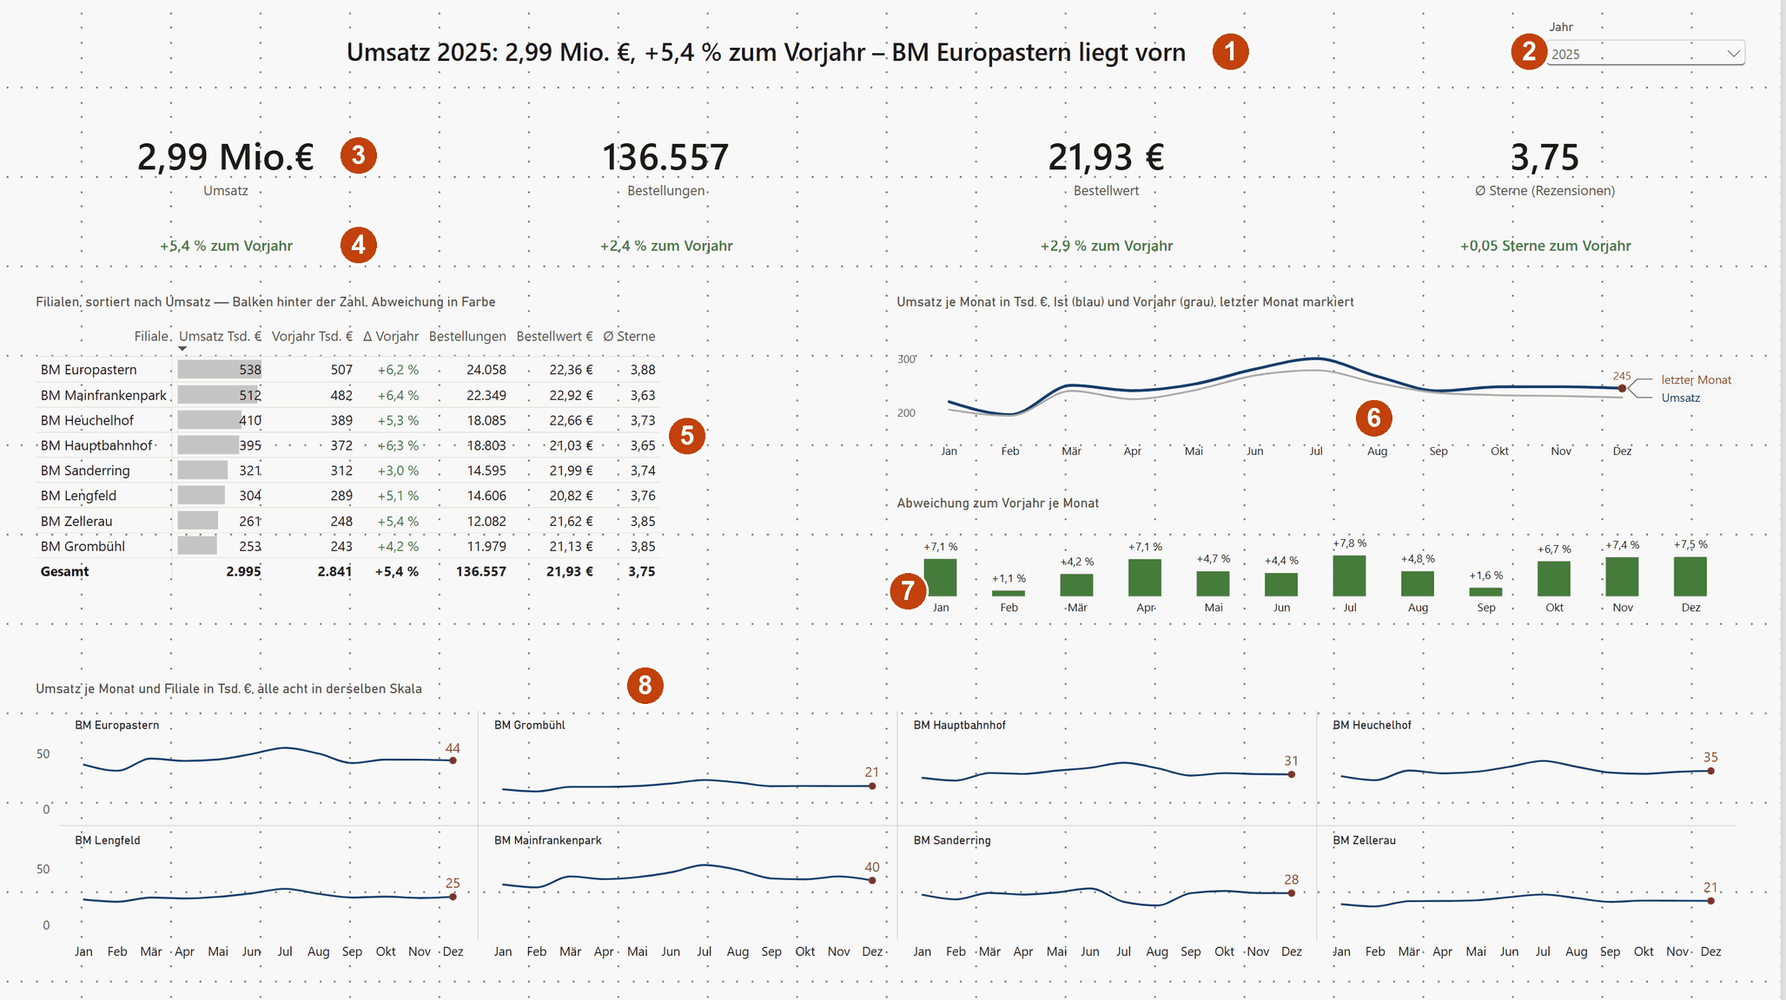
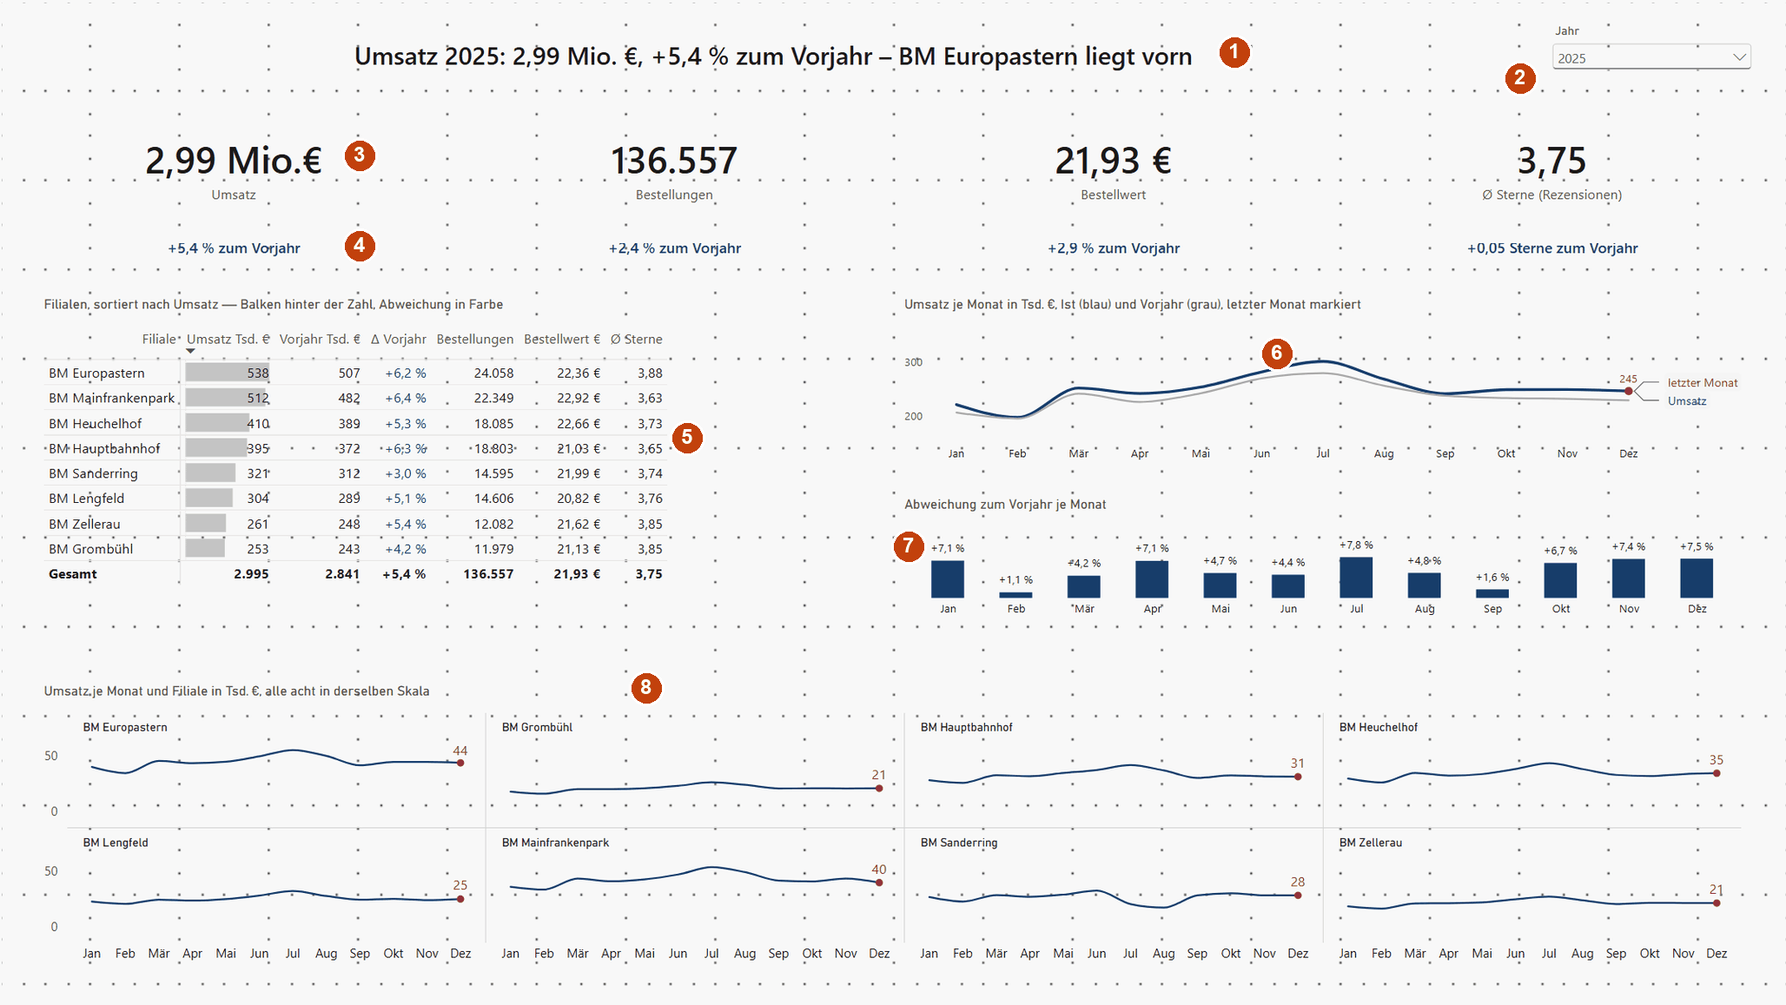
lab 04: Signalfarben in Power BI auf Blau für plus, Rot für minus
Die vier Farb-Measures (Δ Umsatz/Bestellungen/Bestellwert/Ø Sterne Farbe)
liefern jetzt #003E6E statt #2E7D32 — dieselbe Leitfarbe wie die Ist-Linie,
wie in Lab 05. Modell in der VM neu geladen und aktualisiert, Projekt
gespeichert und zurück ins Repository gespielt (ohne die von Power BI neu
erzeugte cultures/de-DE.tmdl). Bildschirmfoto der Dashboard-Seite neu,
Lab-04-Text, Legenden, DAX-Vorlage und Befehlskarte B03 angepasst.
verify.mjs: 815 Zusicherungen, 0 Fehler.

diff --git a/web/lab/lab-04-powerbi.html b/web/lab/lab-04-powerbi.html
@@ -278,20 +278,20 @@
 
   <section class="section-block" id="dashboard">
     <h2>Das Dashboard</h2>
-    <p>Der Bericht zeigt Zahlen; ein Dashboard stellt sie in einen Vergleich. Das Dashboard dieses Labs folgt vier Regeln aus dem Deck: <strong>Grau ist der Normalfall, Farbe die Ausnahme</strong> — die einzige Farbe sitzt in der Abweichung zum Vorjahr, Grün für plus, Rot für minus. <strong>Zahlen bleiben Zahlen</strong> — die Filialen stehen in einer Tabelle, der Balken liegt hinter der Zahl, nicht daneben. <strong>Die Abweichung bekommt eine eigene Zeile</strong> — die Linie zeigt Ist und Vorjahr in Grau und Blau, darunter stehen die Prozentwerte je Monat als eigenes Diagramm. <strong>Small Multiples in derselben Skala</strong> — acht Filialen als acht kleine Linien mit einer gemeinsamen Achse, jede mit dem letzten Wert beschriftet statt mit einer Legende. Der Titel ist ein Measure und nennt Jahr, Summe, Abweichung und die führende Filiale: „Umsatz 2025: 2,99 Mio. €, +5,4 % zum Vorjahr – BM Europastern liegt vorn“.</p>
+    <p>Der Bericht zeigt Zahlen; ein Dashboard stellt sie in einen Vergleich. Das Dashboard dieses Labs folgt vier Regeln aus dem Deck: <strong>Grau ist der Normalfall, Farbe die Ausnahme</strong> — die einzige Farbe sitzt in der Abweichung zum Vorjahr, Blau für plus, Rot für minus — dasselbe Blau wie die Ist-Linie. Blau-Rot statt Grün-Rot, weil rund acht Prozent der Männer Rot und Grün schlecht unterscheiden. <strong>Zahlen bleiben Zahlen</strong> — die Filialen stehen in einer Tabelle, der Balken liegt hinter der Zahl, nicht daneben. <strong>Die Abweichung bekommt eine eigene Zeile</strong> — die Linie zeigt Ist und Vorjahr in Grau und Blau, darunter stehen die Prozentwerte je Monat als eigenes Diagramm. <strong>Small Multiples in derselben Skala</strong> — acht Filialen als acht kleine Linien mit einer gemeinsamen Achse, jede mit dem letzten Wert beschriftet statt mit einer Legende. Der Titel ist ein Measure und nennt Jahr, Summe, Abweichung und die führende Filiale: „Umsatz 2025: 2,99 Mio. €, +5,4 % zum Vorjahr – BM Europastern liegt vorn“.</p>
     <div class="shot">
       <div class="shot-bar"><span class="ampel"><i></i><i></i><i></i></span><span class="titel">Seite „Dashboard“</span><span class="spacer"></span>Power BI Desktop · August 2026</div>
-      <a class="foto" href="assets/powerbi/dashboard.png" target="_blank" rel="noopener"><img src="assets/powerbi/dashboard.png" alt="Dashboard-Seite in Power BI Desktop: Titel Umsatz 2025: 2,99 Mio. €, +5,4 % zum Vorjahr – BM Europastern liegt vorn; Jahresauswahl 2025; vier Kacheln Umsatz 2,99 Mio. €, Bestellungen 136.557, Bestellwert 21,93 €, Ø Sterne 3,75 mit grünen Abweichungstexten zum Vorjahr; Tabelle der acht Filialen mit Datenbalken hinter Umsatz Tsd. €, Vorjahr, Δ Vorjahr in Grün, Bestellungen, Bestellwert und Ø Sterne; Liniendiagramm Umsatz je Monat Ist blau und Vorjahr grau mit rotem Punkt und 245 am letzten Monat; Säulen Abweichung zum Vorjahr je Monat in Grün; acht Small Multiples Umsatz je Monat und Filiale mit roten Endpunkten" width="2056" height="1152" loading="lazy"></a>
+      <a class="foto" href="assets/powerbi/dashboard.png" target="_blank" rel="noopener"><img src="assets/powerbi/dashboard.png" alt="Dashboard-Seite in Power BI Desktop: Titel Umsatz 2025: 2,99 Mio. €, +5,4 % zum Vorjahr – BM Europastern liegt vorn; Jahresauswahl 2025; vier Kacheln Umsatz 2,99 Mio. €, Bestellungen 136.557, Bestellwert 21,93 €, Ø Sterne 3,75 mit blauen Abweichungstexten zum Vorjahr; Tabelle der acht Filialen mit Datenbalken hinter Umsatz Tsd. €, Vorjahr, Δ Vorjahr in Blau, Bestellungen, Bestellwert und Ø Sterne; Liniendiagramm Umsatz je Monat Ist blau und Vorjahr grau mit rotem Punkt und 245 am letzten Monat; Säulen Abweichung zum Vorjahr je Monat in Blau; acht Small Multiples Umsatz je Monat und Filiale mit roten Endpunkten" width="2056" height="1152" loading="lazy"></a>
     </div>
-    <p class="foto-hinweis">Bildschirmfoto vom 21.09.2026, Power BI Desktop 2.157.1354.0 (August 2026) unter Windows 11, deutsche Oberfläche — zum Vergrößern anklicken.</p>
+    <p class="foto-hinweis">Bildschirmfoto vom 22.09.2026, Power BI Desktop 2.157.1354.0 (August 2026) unter Windows 11, deutsche Oberfläche — zum Vergrößern anklicken.</p>
     <ol class="shot-legende">
       <li><span class="callout">1</span><span>Der Titel als Karte mit dem Measure <code>Titel Dashboard</code>: Er rechnet mit, wenn das Jahr wechselt.</span></li>
       <li><span class="callout">2</span><span>Die Jahresauswahl, ein Datenschnitt auf <code>dim_date[year]</code> als Dropdown mit Einzelauswahl; 2025 ist voreingestellt. Ohne gewähltes Jahr zeigen die Kacheln „ein Jahr wählen für den Vorjahresvergleich“.</span></li>
       <li><span class="callout">3</span><span>Vier Karten: <code>Umsatz</code>, <code>Bestellungen</code>, <code>Bestellwert</code>, <code>Ø Sterne</code> — die Kontrollzahlen 2,99 Mio. €, 136.557, 21,93 €, 3,75.</span></li>
-      <li><span class="callout">4</span><span>Darunter je eine Karte mit dem Text-Measure zur Abweichung, gefärbt über das Farb-Measure: +5,4 %, +2,4 %, +2,9 % und +0,05 Sterne zum Vorjahr 2024.</span></li>
-      <li><span class="callout">5</span><span>Die Matrix der acht Filialen, absteigend nach Umsatz: Datenbalken in Grau hinter <code>Umsatz Tsd. €</code>, daneben Vorjahr, <code>Δ Vorjahr</code> in Farbe, Bestellungen, Bestellwert, Ø Sterne; Gesamtzeile 2.995 · 2.841 · +5,4 % · 136.557 · 21,93 € · 3,75.</span></li>
+      <li><span class="callout">4</span><span>Darunter je eine Karte mit dem Text-Measure zur Abweichung, gefärbt über das Farb-Measure: +5,4 %, +2,4 %, +2,9 % und +0,05 Sterne zum Vorjahr 2024 — in Blau, weil alle vier im Plus liegen.</span></li>
+      <li><span class="callout">5</span><span>Die Matrix der acht Filialen, absteigend nach Umsatz: Datenbalken in Grau hinter <code>Umsatz Tsd. €</code>, daneben Vorjahr, <code>Δ Vorjahr</code> in Farbe — hier durchweg Blau —, Bestellungen, Bestellwert, Ø Sterne; Gesamtzeile 2.995 · 2.841 · +5,4 % · 136.557 · 21,93 € · 3,75.</span></li>
       <li><span class="callout">6</span><span>Ist (blau) gegen Vorjahr (grau) je Monat in Tsd. €, Serien direkt beschriftet statt mit Legende, der letzte Monat mit rotem Punkt und Wert: Dezember 245.</span></li>
-      <li><span class="callout">7</span><span>Die Abweichung je Monat als eigene Zeile: Säulen mit Vorzeichen, gefärbt über <code>Δ Umsatz Farbe</code> — 2025 in jedem Monat grün, +1,1 % im Februar bis +7,8 % im Juli.</span></li>
+      <li><span class="callout">7</span><span>Die Abweichung je Monat als eigene Zeile: Säulen mit Vorzeichen, gefärbt über <code>Δ Umsatz Farbe</code> — Blau für plus, Rot für minus; 2025 in jedem Monat blau, +1,1 % im Februar bis +7,8 % im Juli.</span></li>
       <li><span class="callout">8</span><span>Small Multiples: eine Linie je Filiale in derselben Skala, jede mit rotem Endpunkt und Wert. BM Europastern liegt bei 44 Tsd. € im Dezember, BM Zellerau und BM Grombühl bei 21.</span></li>
     </ol>
     <p>Die Vorjahresmeasures brauchen <code>dim_date</code> als markierte Datumstabelle und <code>SAMEPERIODLASTYEAR</code>; die Vorlage <code>powerbi-dashboard.dax</code> enthält alle 20 Measures und die Spalte <code>Monat</code> mit Erklärung, Befehlskarte B03 zerlegt die wichtigsten. Die Klickwege für die vier Bausteine, die den Unterschied zum Bericht machen, stehen in Befehlskarte B04 und den Bildschirmfotos darunter.</p>

diff --git a/docs/superpowers/specs/2026-09-12-bm-analyse-lernumgebung-design.md b/docs/superpowers/specs/2026-09-12-bm-analyse-lernumgebung-design.md
@@ -472,7 +472,7 @@ jeder Seite im Browser (Kopf, Navigation, Übungen, Datenbankband), Aufruf von
 
 **Stand 21. September 2026 (Prüfung von Lab 04 mit Power BI Desktop, dazu ein Dashboard):** Lab 04 wurde in Roberts Parallels-VM (Windows 11, deutsche Oberfläche) mit Power BI Desktop 2.157.1354.0 (August 2026) und dem Demo-Konto durchgespielt: Verbindung, Navigator, Import der sieben Tabellen, Modellansicht, fünf Measures, Seite „Bericht“ (Tabelle der Kontrollzahlen, Balken je Filiale, Linie je Monat, Seitenfilter 2025) — Kontrollzahlen 2.994.771,13 € · 136.557 · 21,93 € · 3,75 wie in `v_kennzahlen_jahr`. Auf Roberts Wunsch kam eine Seite „Dashboard“ nach den Regeln aus `references/diagramme.md` (Tufte, Bissantz, IBCS) dazu: Titel als Measure, vier Kacheln mit Abweichung zum Vorjahr, Matrix der Filialen mit Datenbalken hinter der Zahl, Ist gegen Vorjahr je Monat mit markiertem letztem Punkt, Abweichung als eigene Zeile in Grün/Rot, Small Multiples je Filiale in gleicher Skala, Monatskürzel auf den Achsen; 20 zusätzliche Measures und die Spalte `Monat` (Vorlage `web/lab/vorlagen/powerbi-dashboard.dax`), das Projekt als PBIP ohne Daten und Kennwort unter `powerbi/BurgerMetrics/` (die Seite „Dashboard“ ist als PBIR-JSON geschrieben und in Power BI geladen, geprüft und gespeichert). Befunde und Folgen im Lab: (1) Die Verbindung ist ein einziger Dialog „Mit Datenquelle verbinden“ (Server mit Port, Datenbank, Importieren/DirectQuery, Erweiterte Optionen mit SQL-Anweisung, Authentifizierungsart Standard, Datenschutzebene, Kästchen „Verschlüsselte Verbindung verwenden“); der Wortlaut einer Warnung zur unverschlüsselten Verbindung trat nicht auf (Anmeldung war gespeichert) und wird nicht mehr behauptet. (2) Der Navigator listet Tabellen und gewöhnliche Sichten (48 Einträge), keine materialisierten — die 38 `v_*` fehlen; Weg über „SQL-Anweisung“ mit Genehmigung der nativen Abfrage belegt (`v_kennzahlen_jahr`, zehn Zeilen). (3) Nach dem Laden entstanden acht Beziehungen (alle `_id`-Spalten, im Projekt `AutoDetected_`), die zwei Fremdschlüssel auf `dim_date.date` fehlten trotz beider Optionen und wurden von Hand angelegt; `fact_reviews → fact_orders` legte Power BI selbst als 1:1 inaktiv an (`order_id` beidseitig eindeutig). Die Aussage „13 Fremdschlüssel → 13 Beziehungen“ ist gestrichen. (4) DirectQuery über `fact_order_items` scheitert mit dem belegten Wortlaut „Das Resultset einer Abfrage an eine externe Datenquelle hat die maximal zulässige Größe von 1000000 Zeilen überschritten.“; die inaktive Filialbeziehung zeigt in jedem Balken die Gesamtsumme plus eine Zeile „(Leer)“ (nachgestellt). (5) Die zwei Nachbildungen sind durch 20 Bildschirmfotos unter `web/lab/assets/powerbi/` ersetzt (2,6 MB); Lab 04 hat einen neuen Abschnitt „Das Dashboard“, Befehlskarten B03/B04, Checkliste W04-05 mit acht Schritten, Quizfrage zu den Beziehungen; `LABS` in `bm.js` nennt 150 Minuten; `verify.mjs` 803 Zusicherungen, 0 Fehler. Werkzeuglehre: Parallels-Fenster nur per `computer_batch` bedienbar; Mac-seitiges Schreiben in den VM-Ordner hinterlässt `._*`-Dateien, die Power BI als TMDL zu lesen versucht — vor jedem Öffnen löschen. Nicht geprüft: der Wortlaut der Verschlüsselungswarnung, die Fan Trap im Modell (Zahlen aus SQL), das Verhalten mit allen 14 Tabellen.
 
-**Stand 22. September 2026 (Kennzahlen-Dashboard in Tableau):** Auf Roberts Wunsch wurde das Dashboard aus Lab 04 mit Tableau Desktop 2026.2 (macOS, deutsche Oberfläche, Demo-Konto) nachgebaut und Lab 05 um den Abschnitt „Das Kennzahlen-Dashboard“ erweitert (Roberts Vorgabe vom 22.09.: keine Nennung von Tufte/Bissantz in Überschriften — auch die Lab-04-Einleitung angepasst): Datenquelle aus `fact_orders`, `dim_branch` und `fact_reviews` (Beziehung `Order Id = Order Id`, von Tableau nicht vorgeschlagen) als Extrakt; Parameter `Jahr` statt eines Filters, weil ein Filter das Vorjahr aus dem Blatt entfernen würde — Ist und Vorjahr als `SUM(IF YEAR([Date]) = [Jahr] THEN [Net Total] END)` und `[Jahr] - 1`, ohne Datumstabelle; 27 Calculated Fields (`web/lab/vorlagen/tableau-dashboard-felder.txt`, Befehlskarte B05), darunter der rote Punkt als Doppelachse mit einem Feld, das nur im jüngsten Monat einen Wert hat, `Top Filiale` als verschachtelter FIXED-Ausdruck und der Titel als Feld (`STR()` schreibt Dezimalpunkte, `REPLACE` das Komma); zehn Blätter; nach Roberts Rückmeldung zur ersten Fassung („zu gedrängt, zu wenig Weißraum, untere Grafik zu lang gestreckt“) neu gesetzt: 1600 × 1100, ein vertikaler Container als Rahmen mit horizontalen Containern fester Höhe je Reihe (64/140/390), zwölf Pixel äußere Füllung je Kachel und 20 am Rand, Trenn- und Rasterlinien über Format → Linien entfernt, die Small Multiples in der dritten Runde (Roberts Rückmeldung: Filialname als Überschrift, nicht als Label; gleiche Höhen; letzter Monat an der Achse; Dropdown) als zwei Blätter zu je vier Filialen mit `Branch Name` auf Spalten (Überschrift), Filter auf die Tabellenberechnung `Zeile = INT((INDEX() - 1) / 4)` (0/1, Berechnen per Branch Name), feste Achse 10–60, Teilstriche der Monatsachse alle zwei Monate ab Februar (Dez. angetragen); Balken und Tabelle auf „Gesamte Ansicht“, damit die mittlere Reihe unten bündig schließt; die Abweichung behält ihre Achse in Weiß plus 25 px innere Füllung, ihr Titel ist ein Textobjekt, damit Linie und Säulen monatsgenau übereinanderstehen; Linienachsen ohne Null, Monatskürzel über das Datumsformat „Abkürzung“; der Parameter mit Werteliste 2018–2026 unverankert (Layout x 1380, y 24, 180 × 56) als Kompaktliste (Dropdown), Blatttitel als Legende mit `<Parameter.Jahr>`, Achsentitel und Feldbeschriftungen ausgeblendet, Aliasse für die Spaltenköpfe (Befehlskarte B06). Kontrollzahlen wie in Lab 04: 2.994.771 · 136.557 · 21,93 · 3,750, Abweichungen +5,4 % · +2,4 % · +2,9 % · +0,05 Sterne, Titel „Umsatz 2025: 2,99 Mio. €, +5,4 % zum Vorjahr – BM Europastern liegt vorn“. Zwölf weitere Bildschirmfotos unter `web/lab/assets/tableau/` (Fensteraufnahmen; Menüs und Dialoge als eigene Fenster aufgenommen und an ihrer Bildschirmposition eingesetzt, weil eine Vollbildaufnahme fremde Fenster mitnähme), die Arbeitsmappe unter `tableau/BurgerMetrics.twb` (XML, ohne Daten und Kennwort, `tableau/README.md`), Sperrdatei über `.gitignore` ausgeschlossen; Quiz W05-03 um die Frage Parameter gegen Filter, Checkliste W05-05 um die Kür ergänzt; Lab 05 auf 150 Minuten; `verify.mjs` 815 Zusicherungen, 0 Fehler. Befunde: (1) Tableau-Kacheln im Raster lassen sich nicht über die Größenfelder des Layout-Reiters setzen (nur Anzeige), Ränder werden gezogen oder Container verteilt; (2) Anpassung und Blatttitel sind je Kachel im Dashboard einzustellen, nicht im Blatt; (3) ein Textblatt in Standard-Anpassung bricht Spaltenköpfe um, im Dashboard erst nach einer höheren Kopfzeile — deshalb Aliasse mit Trennstrich („Bestel- lungen“); (4) `STR()` einer Zahl liefert den Dezimalpunkt der Formelsprache, nicht der Oberfläche; (5) Kacheln bekommen ihre Höhe verlässlich nur über „Höhe fixieren“ im Menü des umgebenden Containers, die Größenfelder im Layout-Reiter sind bei Rasterkacheln nur Anzeige; (6) eine Tabellenberechnung mit `INDEX()` zählt ohne „Berechnen per“ die innerste Dimension (Monate) — für das Raster muss sie über `Branch Name` laufen. Vierte Runde (Robert): alle Hilfslinien entfernt — je Blatt Format → Linien (Raster-, Null-, Achsenmaßstäbe, Achsenteilstriche „Keine“, Reiter Blatt/Zeilen/Spalten getrennt) und Format → Rahmen (Zeilen-/Spaltentrennung „Keine“); Lab 05 verlinkt die `.twb` im Repository (Vorlagenkarte, Stand-Hinweis, Fotohinweis). Fünfte Runde (Robert, nach dem Merge): Signalfarben plus Blau `#4E79A7` (Blau der Ist-Linie) und minus Rot `#E15759` statt Grün — in der Mappe war minus bis dahin das Tableau-Standardblau; gesetzt über „Farben bearbeiten…“ am Feld `Δ Umsatz Richtung` (der Wert „minus“ erscheint dort erst, wenn der Parameter auf ein Jahr mit Minus-Monaten steht) und als Schriftfarbe der Δ-Zeile in den vier Karten; neues Bild `dashboard-farben.png`, Lab-Text nennt die Grenze, dass Kartentexte eine feste Schriftfarbe haben. Lab 04 (Power BI) bleibt bei Grün, bis Robert entscheidet. Weitere Befunde: (7) ein Blatt ohne Achse hat einen breiteren Zeichenbereich als eines mit Achse — gleiche Monatsspalten nur mit unsichtbarer (weißer) Achse; (8) eine Kachel im Raster bekommt Weißraum über „Äußere Füllung“, ihre Höhe über den umgebenden Container; (9) INDEX() für Small Multiples zählt ohne „Berechnen per“ die Monate. Nicht geprüft: das Öffnen der `.twb` auf einem anderen Rechner (fehlender Extrakt) und Tableau Public.
+**Stand 22. September 2026 (Kennzahlen-Dashboard in Tableau):** Auf Roberts Wunsch wurde das Dashboard aus Lab 04 mit Tableau Desktop 2026.2 (macOS, deutsche Oberfläche, Demo-Konto) nachgebaut und Lab 05 um den Abschnitt „Das Kennzahlen-Dashboard“ erweitert (Roberts Vorgabe vom 22.09.: keine Nennung von Tufte/Bissantz in Überschriften — auch die Lab-04-Einleitung angepasst): Datenquelle aus `fact_orders`, `dim_branch` und `fact_reviews` (Beziehung `Order Id = Order Id`, von Tableau nicht vorgeschlagen) als Extrakt; Parameter `Jahr` statt eines Filters, weil ein Filter das Vorjahr aus dem Blatt entfernen würde — Ist und Vorjahr als `SUM(IF YEAR([Date]) = [Jahr] THEN [Net Total] END)` und `[Jahr] - 1`, ohne Datumstabelle; 27 Calculated Fields (`web/lab/vorlagen/tableau-dashboard-felder.txt`, Befehlskarte B05), darunter der rote Punkt als Doppelachse mit einem Feld, das nur im jüngsten Monat einen Wert hat, `Top Filiale` als verschachtelter FIXED-Ausdruck und der Titel als Feld (`STR()` schreibt Dezimalpunkte, `REPLACE` das Komma); zehn Blätter; nach Roberts Rückmeldung zur ersten Fassung („zu gedrängt, zu wenig Weißraum, untere Grafik zu lang gestreckt“) neu gesetzt: 1600 × 1100, ein vertikaler Container als Rahmen mit horizontalen Containern fester Höhe je Reihe (64/140/390), zwölf Pixel äußere Füllung je Kachel und 20 am Rand, Trenn- und Rasterlinien über Format → Linien entfernt, die Small Multiples in der dritten Runde (Roberts Rückmeldung: Filialname als Überschrift, nicht als Label; gleiche Höhen; letzter Monat an der Achse; Dropdown) als zwei Blätter zu je vier Filialen mit `Branch Name` auf Spalten (Überschrift), Filter auf die Tabellenberechnung `Zeile = INT((INDEX() - 1) / 4)` (0/1, Berechnen per Branch Name), feste Achse 10–60, Teilstriche der Monatsachse alle zwei Monate ab Februar (Dez. angetragen); Balken und Tabelle auf „Gesamte Ansicht“, damit die mittlere Reihe unten bündig schließt; die Abweichung behält ihre Achse in Weiß plus 25 px innere Füllung, ihr Titel ist ein Textobjekt, damit Linie und Säulen monatsgenau übereinanderstehen; Linienachsen ohne Null, Monatskürzel über das Datumsformat „Abkürzung“; der Parameter mit Werteliste 2018–2026 unverankert (Layout x 1380, y 24, 180 × 56) als Kompaktliste (Dropdown), Blatttitel als Legende mit `<Parameter.Jahr>`, Achsentitel und Feldbeschriftungen ausgeblendet, Aliasse für die Spaltenköpfe (Befehlskarte B06). Kontrollzahlen wie in Lab 04: 2.994.771 · 136.557 · 21,93 · 3,750, Abweichungen +5,4 % · +2,4 % · +2,9 % · +0,05 Sterne, Titel „Umsatz 2025: 2,99 Mio. €, +5,4 % zum Vorjahr – BM Europastern liegt vorn“. Zwölf weitere Bildschirmfotos unter `web/lab/assets/tableau/` (Fensteraufnahmen; Menüs und Dialoge als eigene Fenster aufgenommen und an ihrer Bildschirmposition eingesetzt, weil eine Vollbildaufnahme fremde Fenster mitnähme), die Arbeitsmappe unter `tableau/BurgerMetrics.twb` (XML, ohne Daten und Kennwort, `tableau/README.md`), Sperrdatei über `.gitignore` ausgeschlossen; Quiz W05-03 um die Frage Parameter gegen Filter, Checkliste W05-05 um die Kür ergänzt; Lab 05 auf 150 Minuten; `verify.mjs` 815 Zusicherungen, 0 Fehler. Befunde: (1) Tableau-Kacheln im Raster lassen sich nicht über die Größenfelder des Layout-Reiters setzen (nur Anzeige), Ränder werden gezogen oder Container verteilt; (2) Anpassung und Blatttitel sind je Kachel im Dashboard einzustellen, nicht im Blatt; (3) ein Textblatt in Standard-Anpassung bricht Spaltenköpfe um, im Dashboard erst nach einer höheren Kopfzeile — deshalb Aliasse mit Trennstrich („Bestel- lungen“); (4) `STR()` einer Zahl liefert den Dezimalpunkt der Formelsprache, nicht der Oberfläche; (5) Kacheln bekommen ihre Höhe verlässlich nur über „Höhe fixieren“ im Menü des umgebenden Containers, die Größenfelder im Layout-Reiter sind bei Rasterkacheln nur Anzeige; (6) eine Tabellenberechnung mit `INDEX()` zählt ohne „Berechnen per“ die innerste Dimension (Monate) — für das Raster muss sie über `Branch Name` laufen. Vierte Runde (Robert): alle Hilfslinien entfernt — je Blatt Format → Linien (Raster-, Null-, Achsenmaßstäbe, Achsenteilstriche „Keine“, Reiter Blatt/Zeilen/Spalten getrennt) und Format → Rahmen (Zeilen-/Spaltentrennung „Keine“); Lab 05 verlinkt die `.twb` im Repository (Vorlagenkarte, Stand-Hinweis, Fotohinweis). Fünfte Runde (Robert, nach dem Merge): Signalfarben plus Blau `#4E79A7` (Blau der Ist-Linie) und minus Rot `#E15759` statt Grün — in der Mappe war minus bis dahin das Tableau-Standardblau; gesetzt über „Farben bearbeiten…“ am Feld `Δ Umsatz Richtung` (der Wert „minus“ erscheint dort erst, wenn der Parameter auf ein Jahr mit Minus-Monaten steht) und als Schriftfarbe der Δ-Zeile in den vier Karten; neues Bild `dashboard-farben.png`, Lab-Text nennt die Grenze, dass Kartentexte eine feste Schriftfarbe haben. Lab 04 (Power BI) am selben Tag nachgezogen: die vier Farb-Measures auf `#003E6E` (THWS-Blau, Leitfarbe der Ist-Linie), Modell in der VM über „Apply external changes“ neu geladen und mit `Aktualisieren` neu gerechnet (ein Neuladen allein genügt nicht — die Visuals behalten ihr Abfrageergebnis; zwei Visuals meldeten dabei „Der Vorgang wurde abgebrochen“ und rendern nach einem zweiten Lauf), Bildschirmfoto `assets/powerbi/dashboard.png` neu, Lab-04-Text, DAX-Vorlage und Befehlskarte B03 angepasst; die von Power BI beim Speichern neu erzeugte `cultures/de-DE.tmdl` (16.000 Zeilen linguistische Metadaten) wurde nicht übernommen. Weitere Befunde: (7) ein Blatt ohne Achse hat einen breiteren Zeichenbereich als eines mit Achse — gleiche Monatsspalten nur mit unsichtbarer (weißer) Achse; (8) eine Kachel im Raster bekommt Weißraum über „Äußere Füllung“, ihre Höhe über den umgebenden Container; (9) INDEX() für Small Multiples zählt ohne „Berechnen per“ die Monate. Nicht geprüft: das Öffnen der `.twb` auf einem anderen Rechner (fehlender Extrakt) und Tableau Public.
 
 ## 12 Reihenfolge
 
